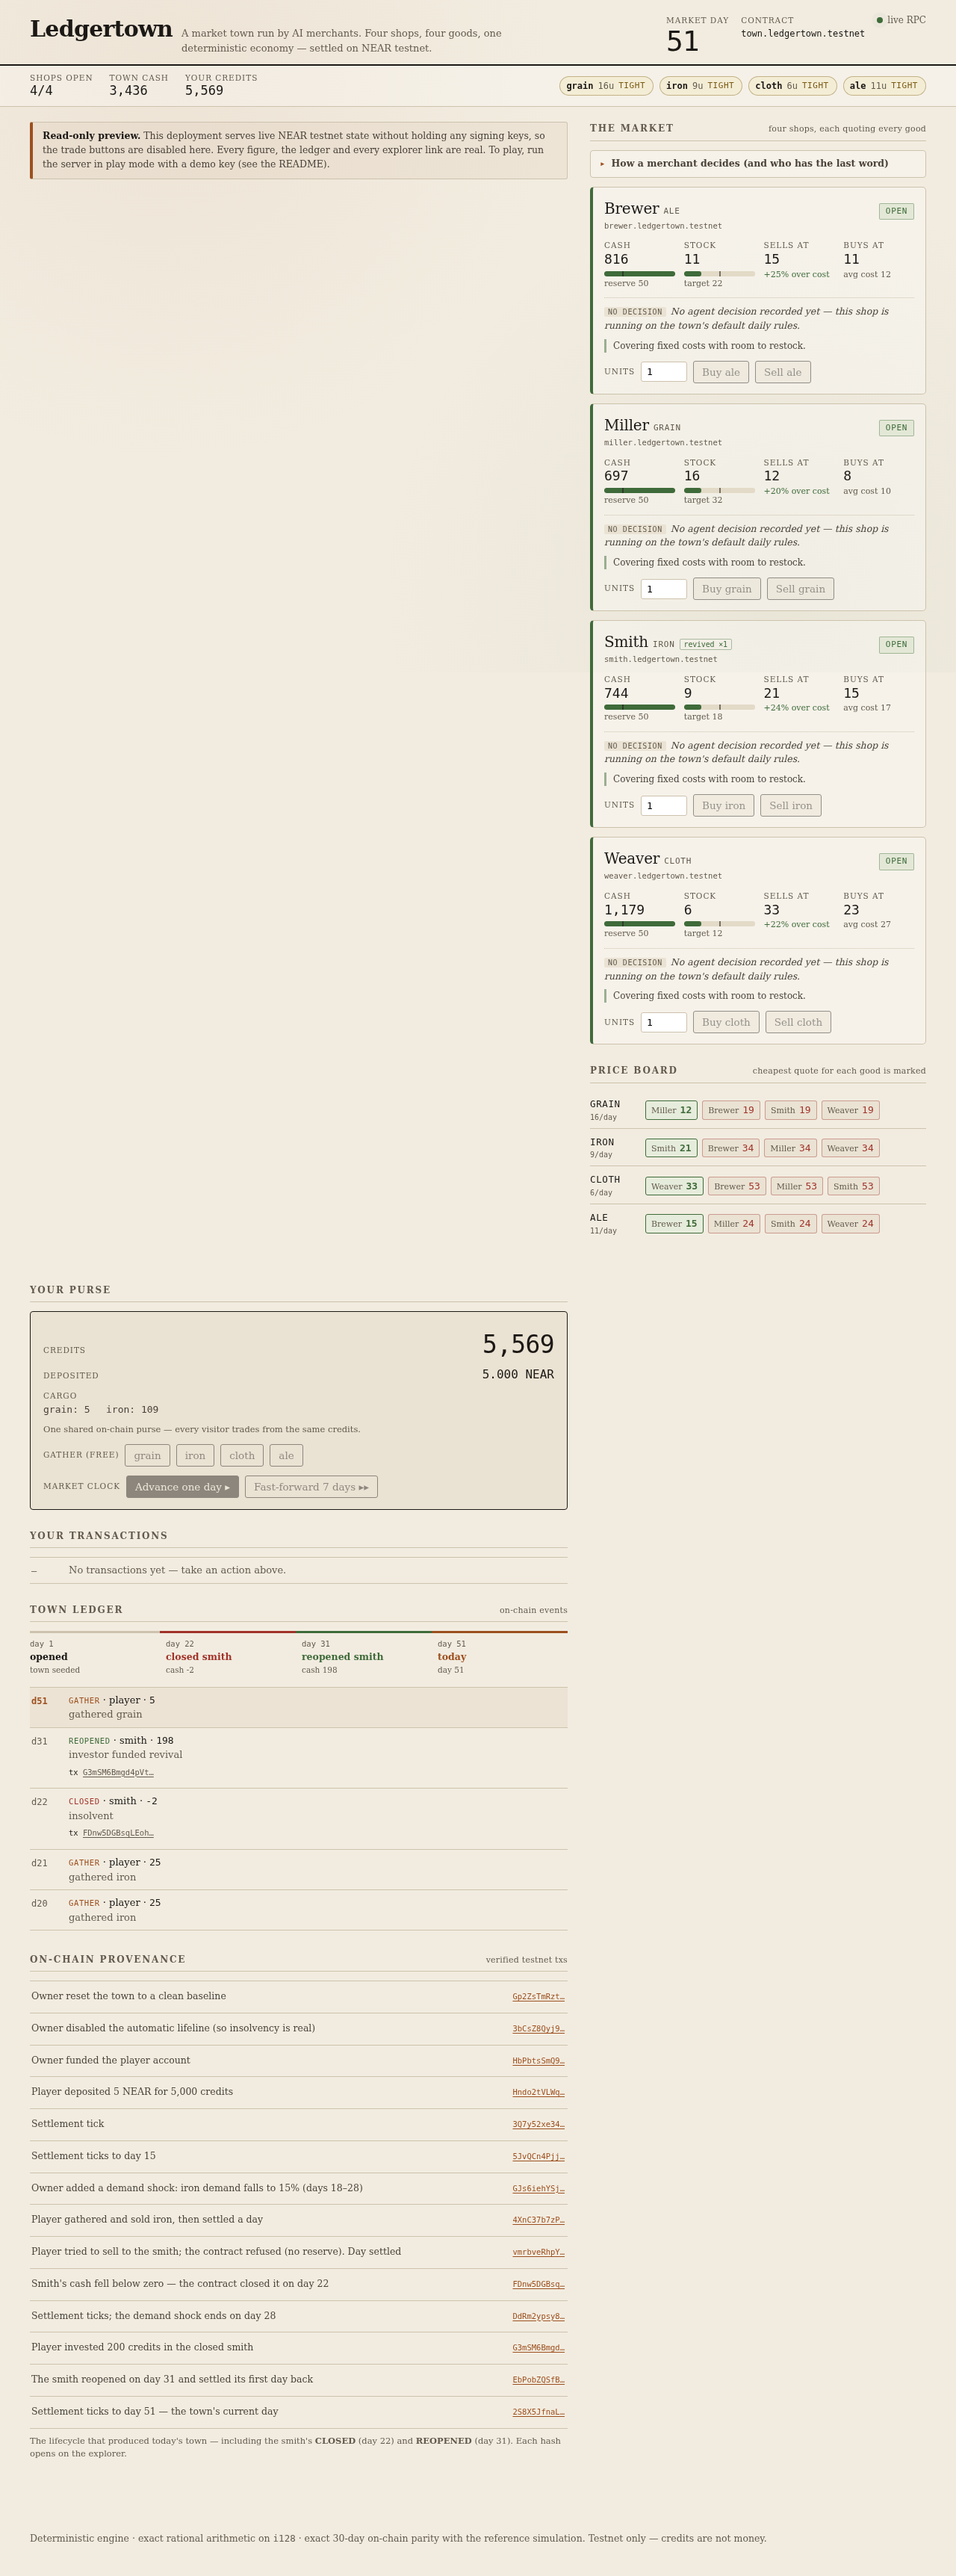
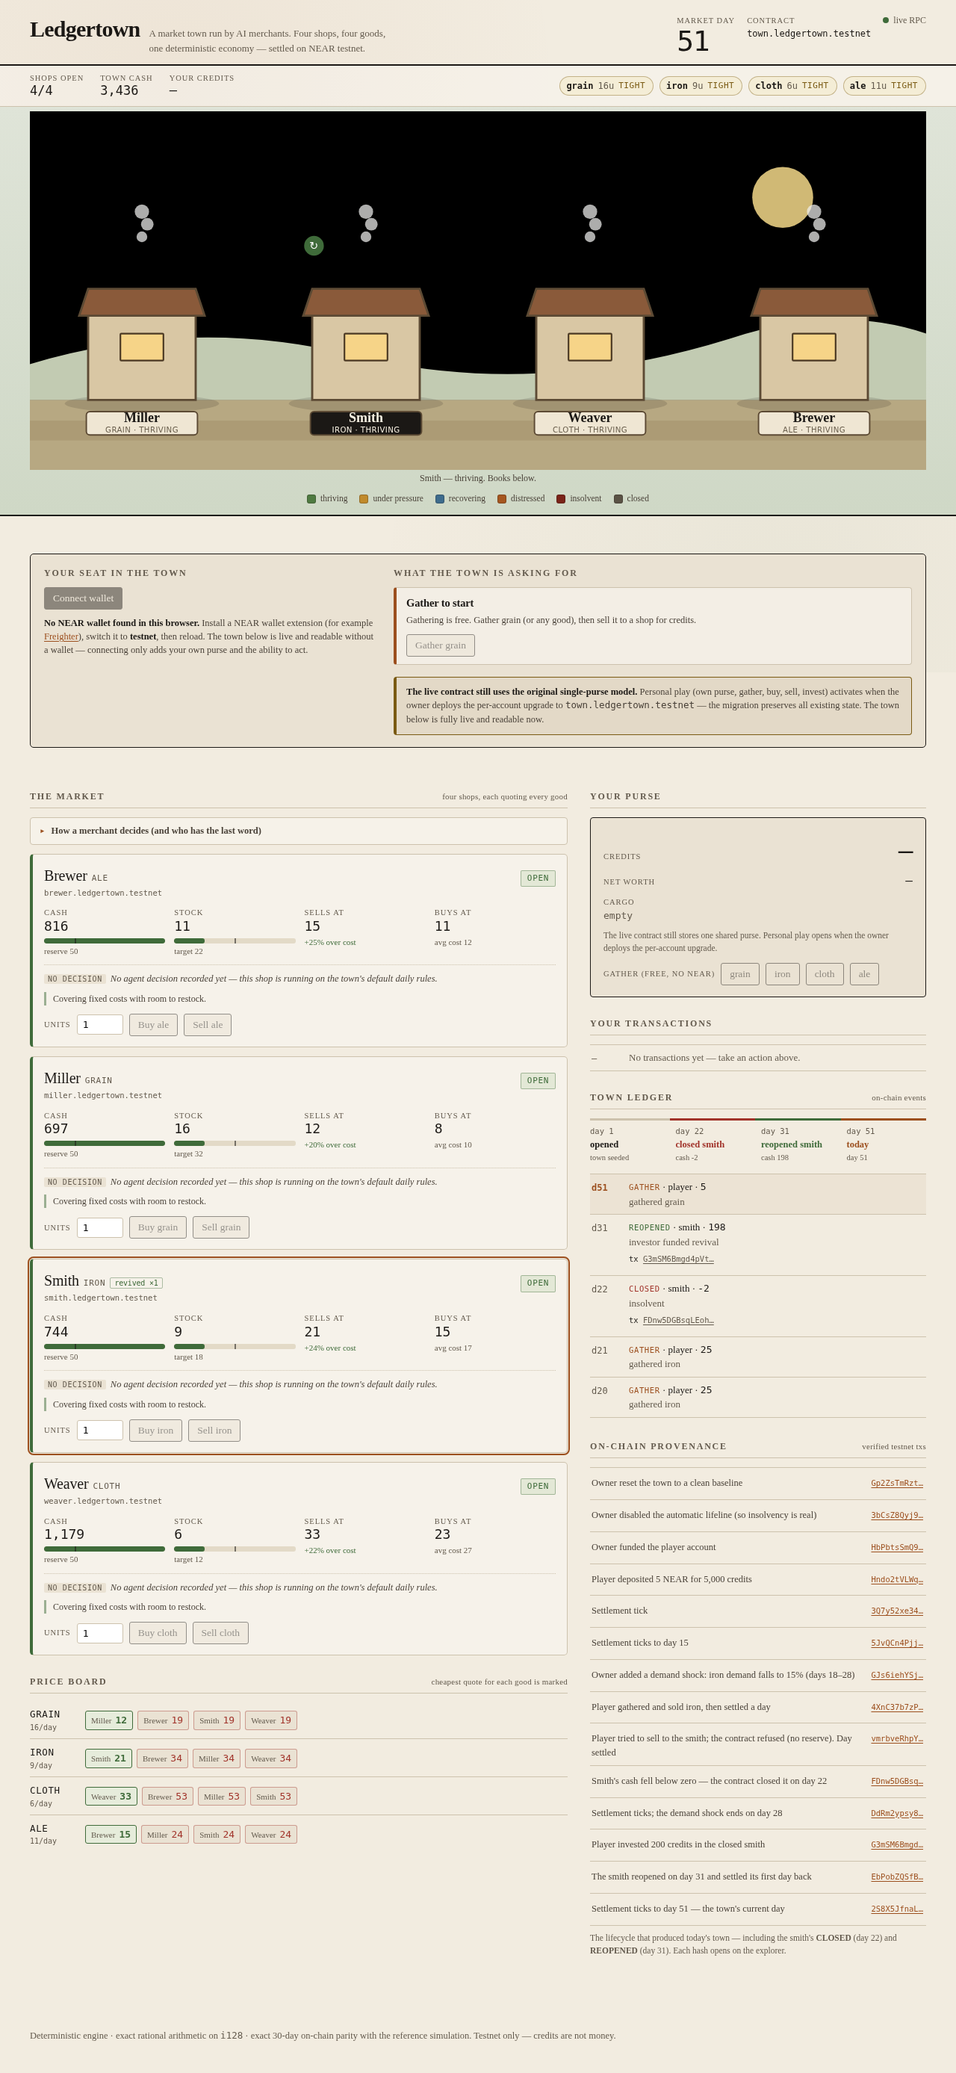
Docs: describe the town scene; refresh release screenshots
The interface section now documents the town as the primary surface, and
the evidence counts match the current suite (104 JS unit tests). Release
screenshots regenerated against the new UI at 320/390/768/1280/1440.

diff --git a/README.md b/README.md
@@ -255,6 +255,13 @@ The interface is a *reading* of the on-chain economy, not a separate game. Every
 figure is derived from the contract's own state (`web/economy.js`), and the
 derivations are unit-tested (`tests/economy.test.js`).
 
+- **The town** — the scene above the fold, and the primary interface. Each shop is
+  a building whose condition is drawn from its real numbers (`web/scene.js`,
+  `tests/scene.test.js`): a thriving shop has lit windows and smoke, a strained one
+  dim windows, an insolvent one goes dark, and a closed one is boarded up. Select a
+  building — by pointer or keyboard — to open that shop's books below. On narrow
+  screens the same four shops appear as tappable tiles, so the drawing never shrinks
+  to illegible labels.
 - **The market** — one panel per shop, showing four instruments drawn against the
   contract's own thresholds: **cash** against the shop's `2 × fixed cost` reserve
   (the line at which it stops buying stock), **stock** against `2 × base demand`
@@ -325,9 +332,9 @@ Offline (no network, no account required):
 
 ```bash
 npm run test:contract     # 20 tests: per-account purses, isolation, migration, parity
-npm run test:agent        # 90 unit tests: merchant policy, failure detection, chain
+npm run test:agent        # 104 unit tests: merchant policy, failure detection, chain
                           # guard, server guards, handler, town client, economy
-                          # derivations, game logic, wallet layer, Vercel entry
+                          # derivations, game logic, town scene, wallet layer, Vercel entry
 python3 feasibility/tests.py       # 25 invariants / determinism tests
 python3 feasibility/exploits.py    # 39 adversarial exploit probes
 ```
@@ -347,10 +354,10 @@ Verified on the live deployment (`town.ledgertown.testnet`, NEAR testnet):
 
 - Contract: `cargo test` — **20 passed** (per-account purse isolation, owner-only
   migration, exact 30-day parity).
-- Unit tests: `node --test tests/*.test.js` — **90 passed** (policy, failure
+- Unit tests: `node --test tests/*.test.js` — **104 passed** (policy, failure
   detection, chain guard, server guards, handler incl. the `/api/player` endpoint,
-  town client, the economy derivations the UI reads, the game logic, the
-  non-custodial wallet layer, and the Vercel entry).
+  town client, the economy derivations the UI reads, the game logic, the town
+  scene, the non-custodial wallet layer, and the Vercel entry).
 - Reference model: `feasibility/tests.py` — **25/25 passed**; `feasibility/exploits.py`
   — **39/39 passed**.
 - Public deployment: `https://ledgertown.vercel.app/` — read-only, serves live

diff --git a/docs/HACKATHON_SUBMISSION.md b/docs/HACKATHON_SUBMISSION.md
@@ -103,9 +103,9 @@ from the README) and show `demo-log.json` plus the explorer hashes.
 
 - Contract `cargo test` — **20 passed**, incl. per-account purse isolation, owner-only
   migration, and exact 30-day parity vs the reference.
-- `node --test tests/*.test.js` — **90 passed** (policy, failure detection, chain guard,
+- `node --test tests/*.test.js` — **104 passed** (policy, failure detection, chain guard,
   server guards, handler incl. `/api/player`, town client, the economy derivations the UI
-  reads, the game logic, the non-custodial wallet layer, Vercel entry).
+  reads, the game logic, the town scene, the non-custodial wallet layer, Vercel entry).
 - Reference model — `feasibility/tests.py` **25/25**; `feasibility/exploits.py` **39/39**.
 - Live parity vs deployed `town.ledgertown.testnet` — **PASS, 120 rows, 0 mismatches**.
 - Lifecycle — `CLOSED` day 22 → `REOPENED` day 31, ending `open` (14 txs).
